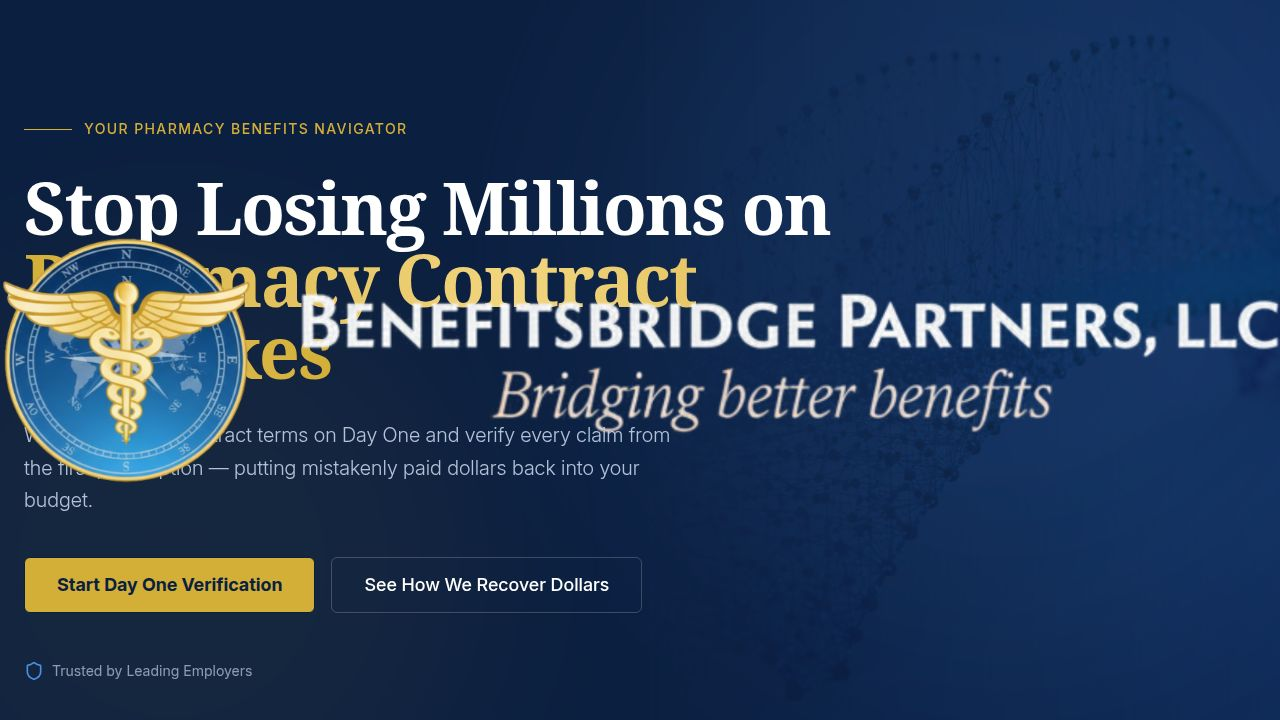
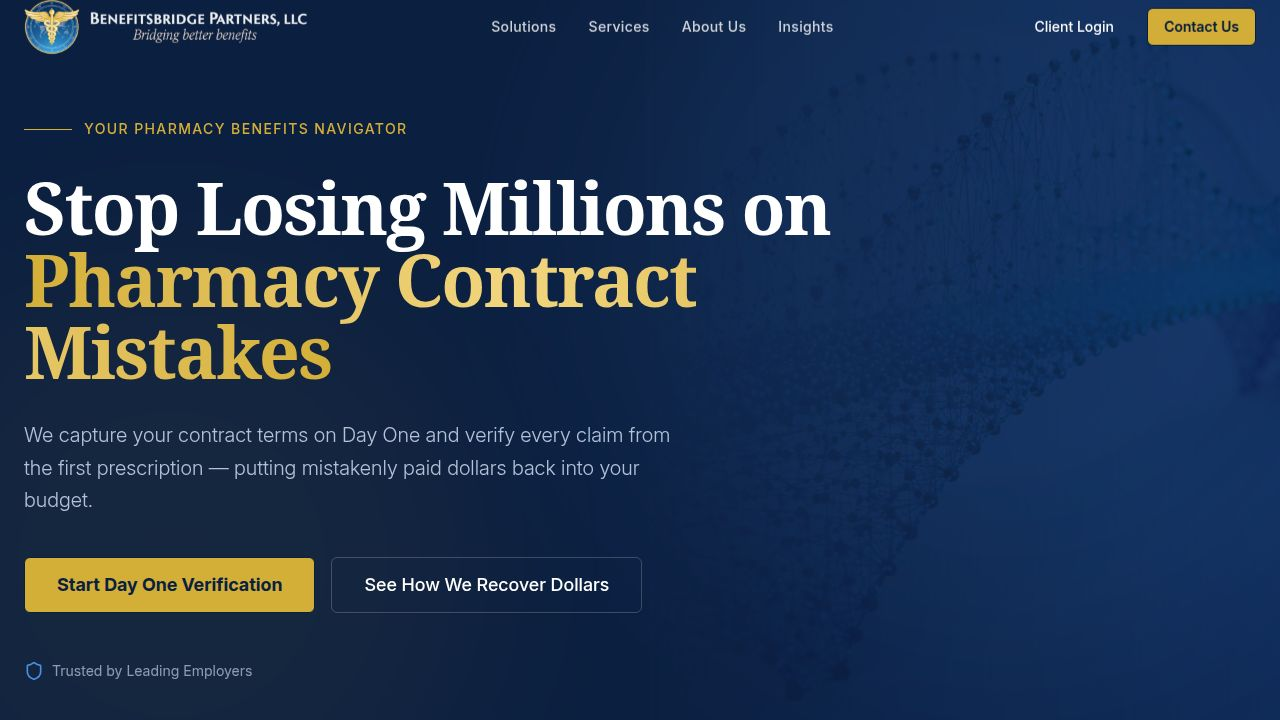
Add a smooth splash screen reveal animation to the homepage
Introduces a `HeroReveal` component using Framer Motion to create a timed, full-screen splash screen animation. The animation includes a logo zoom-out and fade-out effect, along with an animated gradient background with 85% translucency. This replaces the previous scroll-triggered animation and prevents page scrolling during the reveal. The `Nav` component is updated to conditionally render based on the completion of this reveal.

Replit-Commit-Author: Agent
Replit-Commit-Session-Id: d11f1e3f-d45f-4a73-9fab-a475a6dd89ae
Replit-Commit-Checkpoint-Type: intermediate_checkpoint
Replit-Commit-Event-Id: bad3db69-f8ee-4b76-aed0-9e56b23893c1
Replit-Commit-Screenshot-Url: https://storage.googleapis.com/screenshot-production-us-central1/a25d05e9-fbfc-4155-8433-bf3647711ad1/d11f1e3f-d45f-4a73-9fab-a475a6dd89ae/zC9kv8M
Replit-Helium-Checkpoint-Created: true

diff --git a/client/src/components/site-header.tsx b/client/src/components/site-header.tsx
@@ -1,5 +1,6 @@
 import { Link, useLocation } from "wouter";
-import { useState, useEffect, useRef } from "react";
+import { useState, useEffect } from "react";
+import { motion } from "framer-motion";
 import { Button } from "@/components/ui/button";
 import { Sheet, SheetContent, SheetTrigger } from "@/components/ui/sheet";
 import { Menu } from "lucide-react";
@@ -7,13 +8,12 @@ import logoImage from "@assets/BBP LOGO PRESENTATION 2_1764204475650.png";
 
 interface NavProps {
   variant?: "transparent" | "solid";
+  revealComplete?: boolean;
 }
 
-export const Nav = ({ variant = "solid" }: NavProps) => {
+export const Nav = ({ variant = "solid", revealComplete = true }: NavProps) => {
   const [location] = useLocation();
   const [scrolled, setScrolled] = useState(false);
-  const [scrollProgress, setScrollProgress] = useState(0);
-  const [animationComplete, setAnimationComplete] = useState(false);
   
   const navLinks = [
     { name: "Solutions", href: "/solutions" },
@@ -29,150 +29,96 @@ export const Nav = ({ variant = "solid" }: NavProps) => {
     if (!isHomePage) return;
 
     const handleScroll = () => {
-      const scrollY = window.scrollY;
-      const threshold = 300;
-      
-      if (animationComplete) {
-        return;
-      }
-      
-      if (scrollY > 20) {
+      if (window.scrollY > 50) {
         setScrolled(true);
-        setAnimationComplete(true);
-        setScrollProgress(1);
-        return;
+      } else {
+        setScrolled(false);
       }
-      
-      const progress = Math.min(scrollY / threshold, 1);
-      setScrollProgress(progress);
     };
 
     window.addEventListener("scroll", handleScroll, { passive: true });
     handleScroll();
     
     return () => window.removeEventListener("scroll", handleScroll);
-  }, [isHomePage, animationComplete]);
+  }, [isHomePage]);
 
   if (isHomePage) {
-    const showHeroLogo = !animationComplete;
-    
     return (
-      <>
-        {showHeroLogo && (
-          <div 
-            className="fixed inset-0 z-40 flex items-center justify-center"
-            style={{
-              opacity: 1 - scrollProgress,
-              transform: `scale(${1 - scrollProgress * 0.3})`,
-              transition: 'opacity 0.15s ease-out, transform 0.15s ease-out',
-              pointerEvents: scrollProgress > 0.5 ? 'none' : 'auto',
-            }}
-          >
-            <div className="absolute inset-0 bg-[#0B1F40]/75" />
-            <Link href="/" className="relative z-10">
+      <motion.nav 
+        className={`fixed top-0 left-0 right-0 z-50 py-4 px-6 transition-all duration-300 ${
+          scrolled
+            ? "bg-[#0B1F40]/95 backdrop-blur-md border-b border-white/10" 
+            : "bg-transparent"
+        }`}
+        initial={{ opacity: 0, y: -20 }}
+        animate={{ 
+          opacity: revealComplete ? 1 : 0,
+          y: revealComplete ? 0 : -20,
+        }}
+        transition={{ duration: 0.5, delay: 0.2, ease: [0.4, 0, 0.2, 1] }}
+      >
+        <div className="container mx-auto flex items-center justify-between">
+          <Link href="/">
+            <div className="flex items-center gap-3 cursor-pointer">
               <img 
                 src={logoImage} 
                 alt="BenefitsBridge Partners Logo" 
-                className="object-contain"
-                style={{
-                  width: '75vw',
-                  maxWidth: '800px',
-                  transition: 'transform 0.15s ease-out',
-                }}
+                className="h-12 md:h-14 object-contain"
               />
-            </Link>
-          </div>
-        )}
-
-        <nav 
-          className={`fixed top-0 left-0 right-0 z-50 py-4 px-6 transition-all duration-300 ${
-            scrolled || animationComplete
-              ? "bg-[#0B1F40]/95 backdrop-blur-md border-b border-white/10" 
-              : "bg-transparent"
-          }`}
-        >
-          <div className="container mx-auto flex items-center justify-between">
-            <Link href="/">
-              <div 
-                className="flex items-center gap-3 cursor-pointer transition-all duration-300"
-                style={{
-                  opacity: animationComplete ? 1 : scrollProgress,
-                  transform: animationComplete ? 'translateX(0)' : `translateX(${(1 - scrollProgress) * -20}px)`,
-                }}
+            </div>
+          </Link>
+          
+          <div className="hidden md:flex items-center gap-8">
+            {navLinks.map((link) => (
+              <Link 
+                key={link.name} 
+                href={link.href} 
+                className={`text-white/80 hover:text-[#D4AF37] text-sm font-medium transition-colors tracking-wide ${
+                  location === link.href ? "text-[#D4AF37]" : ""
+                }`}
               >
-                <img 
-                  src={logoImage} 
-                  alt="BenefitsBridge Partners Logo" 
-                  className="h-12 md:h-14 object-contain"
-                />
-              </div>
-            </Link>
-            
-            <div 
-              className="hidden md:flex items-center gap-8 transition-all duration-300"
-              style={{
-                opacity: animationComplete ? 1 : scrollProgress,
-                transform: animationComplete ? 'translateY(0)' : `translateY(${(1 - scrollProgress) * -10}px)`,
-              }}
-            >
-              {navLinks.map((link) => (
-                <Link 
-                  key={link.name} 
-                  href={link.href} 
-                  className={`text-white/80 hover:text-[#D4AF37] text-sm font-medium transition-colors tracking-wide ${
-                    location === link.href ? "text-[#D4AF37]" : ""
-                  }`}
-                >
-                  {link.name}
-                </Link>
-              ))}
-            </div>
-
-            <div 
-              className="hidden md:flex items-center gap-4 transition-all duration-300"
-              style={{
-                opacity: animationComplete ? 1 : scrollProgress,
-                transform: animationComplete ? 'translateY(0)' : `translateY(${(1 - scrollProgress) * -10}px)`,
-              }}
-            >
-              <Button variant="ghost" className="text-white hover:text-[#D4AF37] hover:bg-white/5">
-                Client Login
-              </Button>
-              <Button asChild className="bg-[#D4AF37] text-[#0B1F40] hover:bg-[#B59328] font-semibold">
-                <Link href="/contact">
-                  Contact Us
-                </Link>
-              </Button>
-            </div>
-
-            <Sheet>
-              <SheetTrigger asChild>
-                <Button 
-                  variant="ghost" 
-                  size="icon" 
-                  className="md:hidden text-white transition-opacity duration-300"
-                  style={{ opacity: animationComplete ? 1 : scrollProgress }}
-                >
-                  <Menu />
-                </Button>
-              </SheetTrigger>
-              <SheetContent className="bg-[#0B1F40] border-white/10 text-white">
-                <div className="flex flex-col gap-6 mt-6">
-                  {navLinks.map((link) => (
-                    <Link key={link.name} href={link.href} className="text-lg font-medium hover:text-[#D4AF37]">
-                      {link.name}
-                    </Link>
-                  ))}
-                  <hr className="border-white/10" />
-                  <Button asChild className="bg-[#D4AF37] text-[#0B1F40] hover:bg-[#B59328] w-full">
-                    <Link href="/contact">Contact Us</Link>
-                  </Button>
-                </div>
-              </SheetContent>
-            </Sheet>
+                {link.name}
+              </Link>
+            ))}
           </div>
-        </nav>
-      </>
+
+          <div className="hidden md:flex items-center gap-4">
+            <Button variant="ghost" className="text-white hover:text-[#D4AF37] hover:bg-white/5">
+              Client Login
+            </Button>
+            <Button asChild className="bg-[#D4AF37] text-[#0B1F40] hover:bg-[#B59328] font-semibold">
+              <Link href="/contact">
+                Contact Us
+              </Link>
+            </Button>
+          </div>
+
+          <Sheet>
+            <SheetTrigger asChild>
+              <Button 
+                variant="ghost" 
+                size="icon" 
+                className="md:hidden text-white"
+              >
+                <Menu />
+              </Button>
+            </SheetTrigger>
+            <SheetContent className="bg-[#0B1F40] border-white/10 text-white">
+              <div className="flex flex-col gap-6 mt-6">
+                {navLinks.map((link) => (
+                  <Link key={link.name} href={link.href} className="text-lg font-medium hover:text-[#D4AF37]">
+                    {link.name}
+                  </Link>
+                ))}
+                <hr className="border-white/10" />
+                <Button asChild className="bg-[#D4AF37] text-[#0B1F40] hover:bg-[#B59328] w-full">
+                  <Link href="/contact">Contact Us</Link>
+                </Button>
+              </div>
+            </SheetContent>
+          </Sheet>
+        </div>
+      </motion.nav>
     );
   }
 

diff --git a/client/src/components/hero-reveal.tsx b/client/src/components/hero-reveal.tsx
@@ -1,0 +1,106 @@
+import { useState, useEffect } from "react";
+import { motion, AnimatePresence } from "framer-motion";
+import logoImage from "@assets/BBP LOGO PRESENTATION 2_1764204475650.png";
+import { Link } from "wouter";
+
+interface HeroRevealProps {
+  onComplete: () => void;
+}
+
+export const HeroReveal = ({ onComplete }: HeroRevealProps) => {
+  const [isVisible, setIsVisible] = useState(true);
+  const [hasStartedExit, setHasStartedExit] = useState(false);
+
+  useEffect(() => {
+    document.body.style.overflow = 'hidden';
+    
+    const timer = setTimeout(() => {
+      setHasStartedExit(true);
+    }, 1500);
+
+    return () => {
+      clearTimeout(timer);
+      document.body.style.overflow = '';
+    };
+  }, []);
+
+  const handleAnimationComplete = () => {
+    if (hasStartedExit) {
+      setIsVisible(false);
+      document.body.style.overflow = '';
+      onComplete();
+    }
+  };
+
+  return (
+    <AnimatePresence>
+      {isVisible && (
+        <motion.div
+          className="fixed inset-0 z-[100] flex items-center justify-center"
+          initial={{ opacity: 1 }}
+          animate={{ 
+            opacity: hasStartedExit ? 0 : 1,
+          }}
+          exit={{ opacity: 0 }}
+          transition={{ 
+            duration: 0.8, 
+            ease: [0.4, 0, 0.2, 1]
+          }}
+          onAnimationComplete={handleAnimationComplete}
+        >
+          <motion.div 
+            className="absolute inset-0"
+            style={{
+              background: 'radial-gradient(ellipse at center, rgba(26, 59, 110, 0.85) 0%, rgba(11, 31, 64, 0.85) 50%, rgba(5, 14, 31, 0.85) 100%)',
+            }}
+            initial={{ opacity: 1 }}
+            animate={{ 
+              opacity: hasStartedExit ? 0 : 1,
+            }}
+            transition={{ 
+              duration: 1, 
+              ease: [0.4, 0, 0.2, 1]
+            }}
+          />
+
+          <motion.div
+            className="absolute inset-0 pointer-events-none"
+            initial={{ opacity: 0.3 }}
+            animate={{ 
+              opacity: hasStartedExit ? 0 : [0.3, 0.5, 0.3],
+            }}
+            transition={{ 
+              opacity: hasStartedExit 
+                ? { duration: 0.8 }
+                : { duration: 3, repeat: Infinity, ease: "easeInOut" }
+            }}
+          >
+            <div className="absolute top-[-20%] right-[-10%] w-[600px] h-[600px] bg-[#4A90E2] opacity-20 blur-[100px] rounded-full" />
+            <div className="absolute bottom-[-20%] left-[-10%] w-[500px] h-[500px] bg-[#D4AF37] opacity-15 blur-[80px] rounded-full" />
+          </motion.div>
+
+          <Link href="/" className="relative z-10">
+            <motion.img
+              src={logoImage}
+              alt="BenefitsBridge Partners Logo"
+              className="object-contain"
+              style={{
+                width: '75vw',
+                maxWidth: '800px',
+              }}
+              initial={{ scale: 1, opacity: 1 }}
+              animate={{ 
+                scale: hasStartedExit ? 0.6 : 1,
+                opacity: hasStartedExit ? 0 : 1,
+              }}
+              transition={{ 
+                duration: 0.8, 
+                ease: [0.4, 0, 0.2, 1]
+              }}
+            />
+          </Link>
+        </motion.div>
+      )}
+    </AnimatePresence>
+  );
+};

diff --git a/client/src/pages/home.tsx b/client/src/pages/home.tsx
@@ -22,15 +22,18 @@ import { Button } from "@/components/ui/button";
 import { motion } from "framer-motion";
 import { Nav } from "@/components/site-header";
 import { Footer } from "@/components/site-footer";
+import { HeroReveal } from "@/components/hero-reveal";
 import { Link } from "wouter";
 
 import heroData from "@assets/generated_images/abstract_connecting_bridge_data_visualization.png";
-import logoImage from "@assets/BBP LOGO PRESENTATION 2_1764204475650.png";
 
 export default function Home() {
+  const [revealComplete, setRevealComplete] = useState(false);
+
   return (
     <div className="font-sans bg-[#0B1F40] min-h-screen text-white selection:bg-[#D4AF37] selection:text-[#0B1F40]">
-      <Nav variant="transparent" />
+      <HeroReveal onComplete={() => setRevealComplete(true)} />
+      <Nav variant="transparent" revealComplete={revealComplete} />
       {/* Hero Section - Updated with Track 1 Messaging */}
       <section className="relative min-h-screen flex items-center pt-20 overflow-hidden">
         <div className="absolute inset-0 bg-[radial-gradient(circle_at_top_right,_var(--tw-gradient-stops))] from-[#1a3b6e] via-[#0B1F40] to-[#050e1f]"></div>
